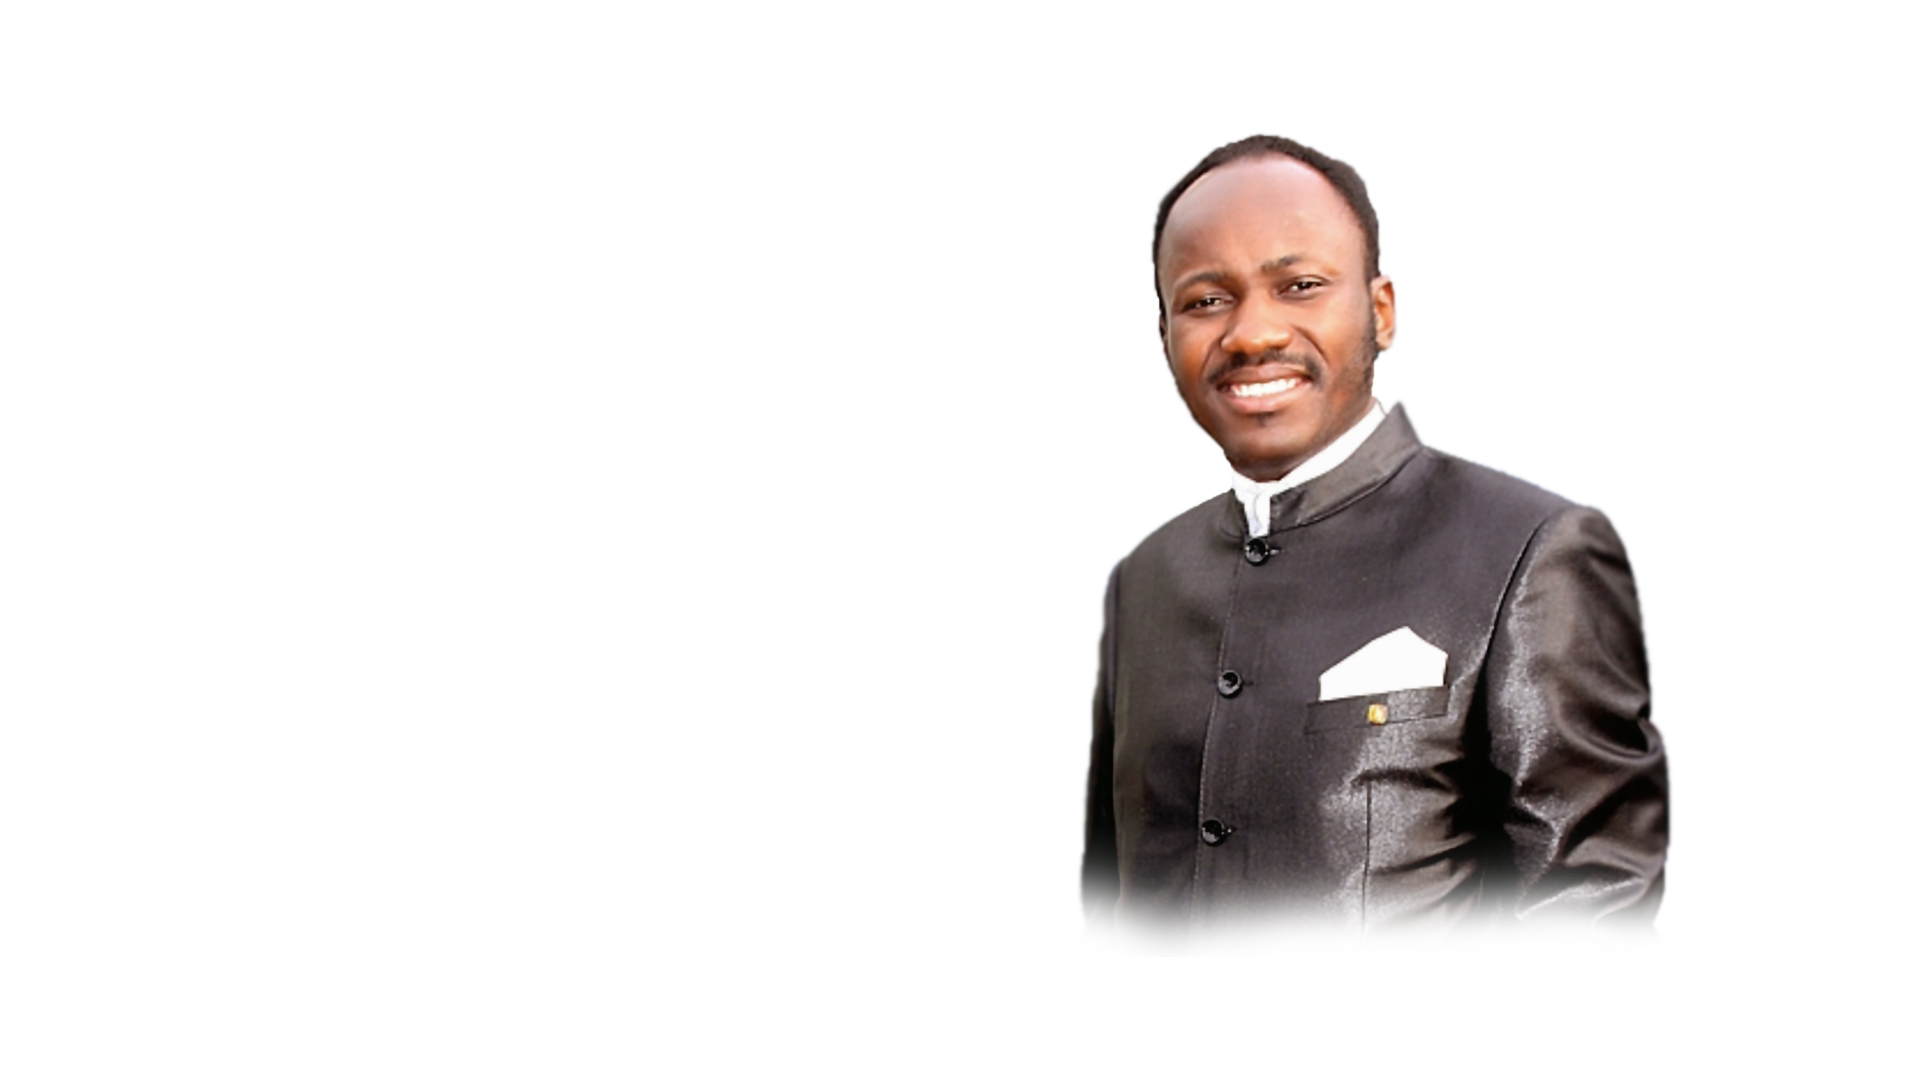
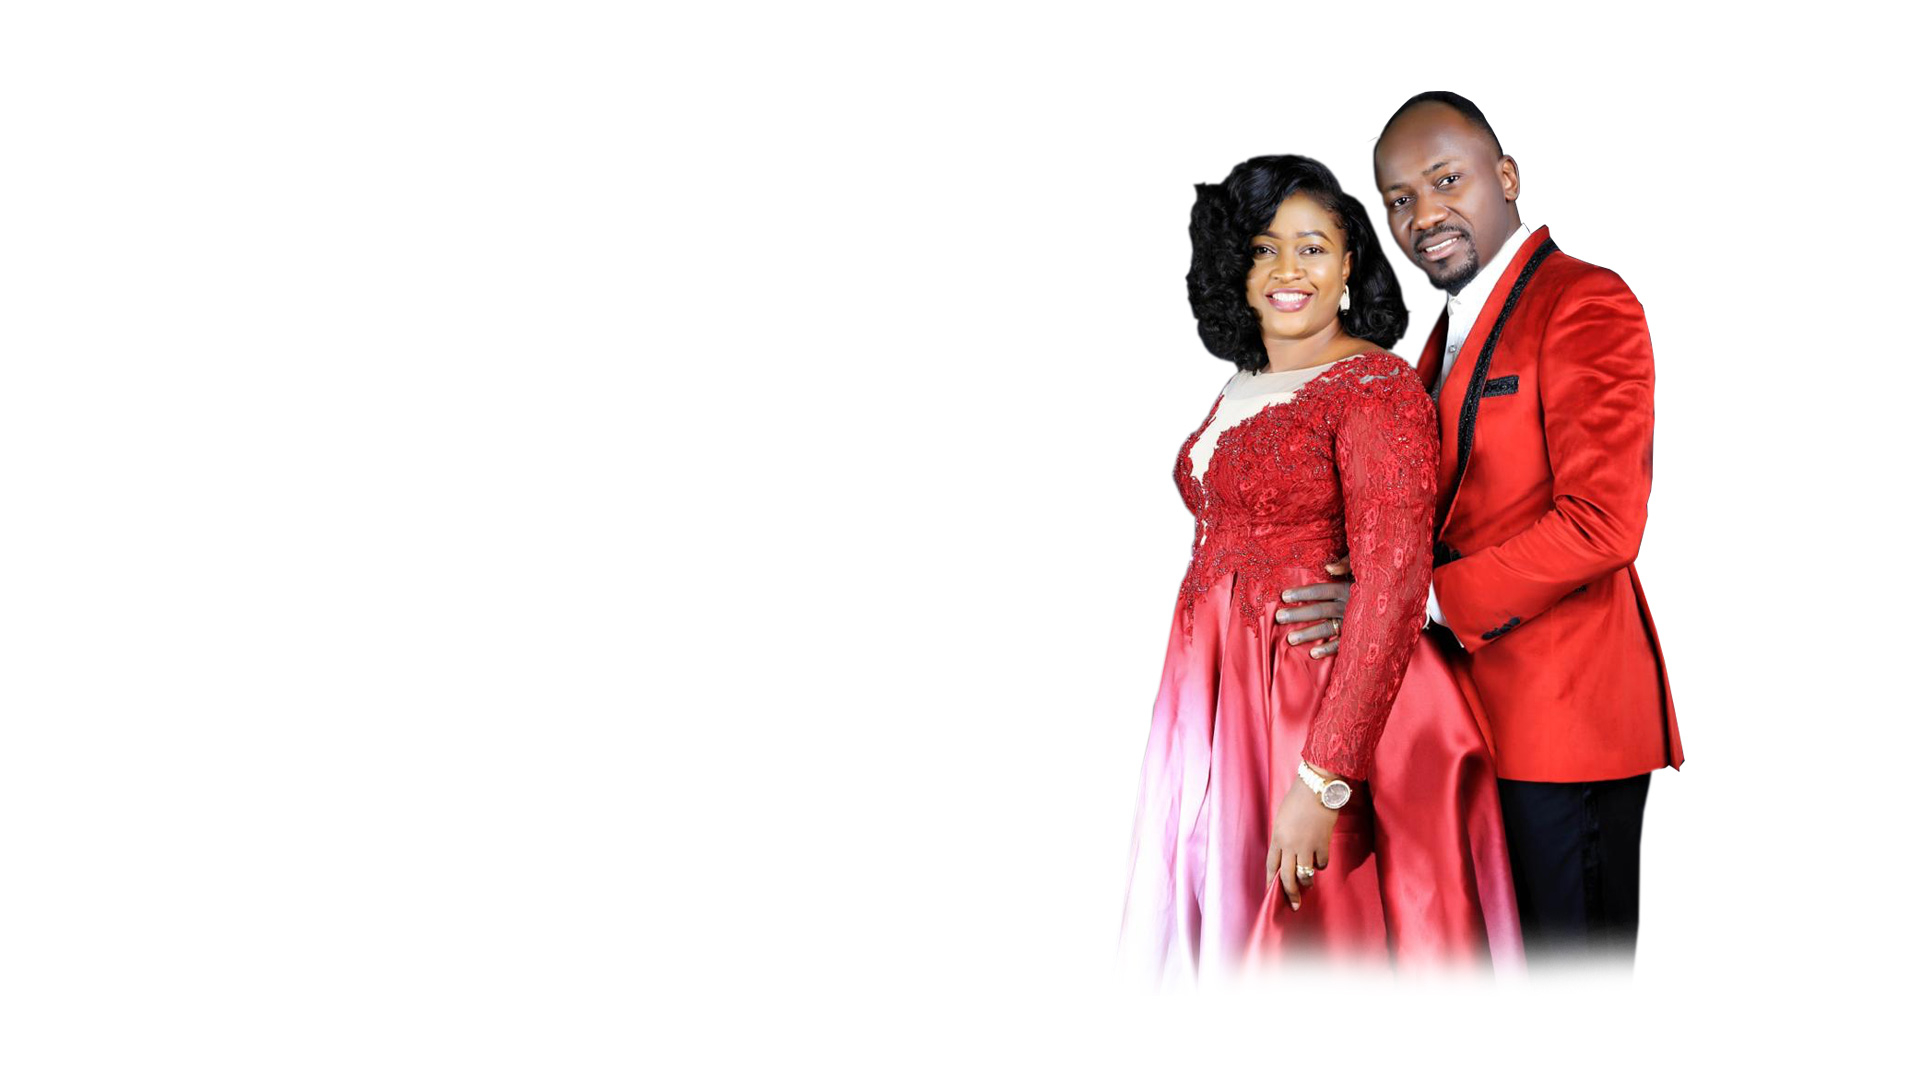
added new images front and authors

Changed region(s): [[0.5625, 0.0624, 0.875, 0.9046]]

diff --git a/resources/views/home2.blade.php b/resources/views/home2.blade.php
@@ -230,7 +230,7 @@
                                 <div class="col-12">
                                     <div class="intro_layers_wrapper">
                                         <div class="img-layer animate" data-animation="fadeInLeft">
-                                            <img src="images/front.png" alt="img">
+                                            <img src="images/front4.png" alt="img">
                                         </div>
                                         <div class="intro_layers">
 
@@ -266,9 +266,9 @@
                 <div class="row">
                     <div class="col-lg-6">
                         <div class="divider-xl-200"></div>
-                        <p class="mb-2 color-dark">Meet author</p>
+                        <p class="mb-2 color-dark">Meet the Authors</p>
                         <h2 class="special-heading">
-                            <span>Apostle Johnson Suleman</span>
+                            <span>Apostle (Prof.) Johnson & Dr. Lizzy Suleman</span>
                         </h2>
                         <div class="divider-40"></div>
                         <p class="excerpt">
@@ -294,8 +294,8 @@
                 <div class="row align-center">
                     <div class="col-lg-6">
                         <div class="video-shortcode">
-                            <img src="images/front.png" alt="img">
-                            <a href="#" class="photoswipe-link photoswipe-link-button" data-iframe="https://www.youtube.com/embed/YncSOWJ-kRs" data-index="1"></a>
+                            <img src="images/front3.jpg" alt="img">
+                            <a href="#" class="photoswipe-link "  data-index="1"></a>
                         </div>
                     </div>
                     <div class="col-lg-6">
